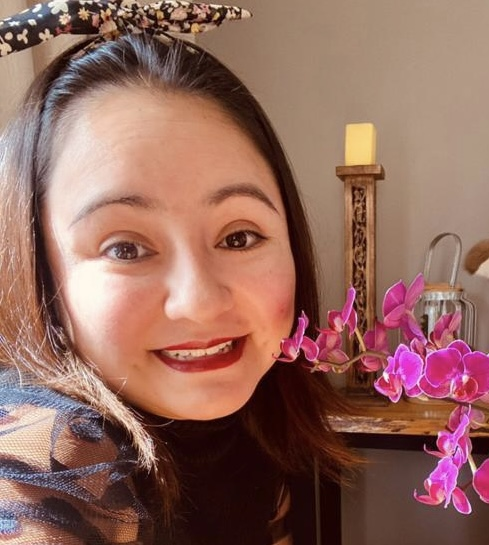
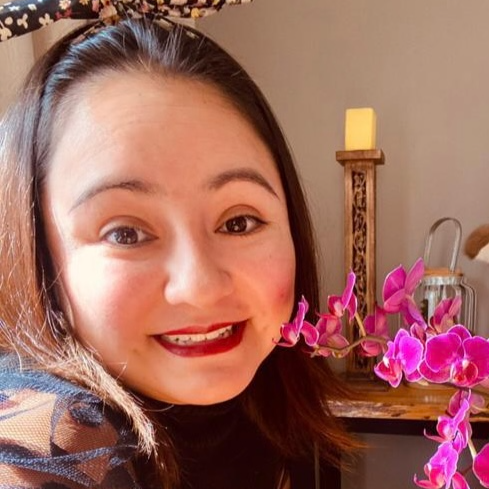
adicionando fotos

diff --git a/challenge-schneider/src/pages/paginaInfo/Sobre/index.jsx b/challenge-schneider/src/pages/paginaInfo/Sobre/index.jsx
@@ -4,6 +4,7 @@ import logo from "/images/schneider-logo-white.png"
 import fotoFiorella from '/images/fiorella.jpg'
 import { AreaSobre } from './styled';
 import fotoLeonardo from '/images/leonardo.jpg'
+import fotoAna from '/images/ana.jpeg'
 
 function Sobre() {
     return (
@@ -31,28 +32,31 @@ function Sobre() {
                     </div>
 
                     <div className='flex justify-center flex-wrap space-x-5 cards'>
-                        <div className='card flex-shrink-0 w-72 space-y-1 bg-neutral-50 shadow-md rounded-t-xl'>
-                            <div className='foto flex'>
-                                <img src={fotoFiorella} alt="foto" className='rounded-full' />
-                            </div>
-                            <h2>Nome:</h2>
-                            <p>Marilia Fiorella Méjico Mendoza Bueno</p>
-                            <h2>Rm:</h2>
-                            <p>97300</p>
-                            <h2>Função:</h2>
-                            <p>Elaboração de formulários, página Sobre, criação de conteúdo de postagens, e quiz.</p>
-
-                        </div>
+                        
                         <div className='card flex-shrink-0 w-72 space-y-1  bg-neutral-50 shadow-md rounded-t-xl'>
                             <div className='foto flex'>
-                                <img src="https://img.freepik.com/vetores-premium/pessoa-desconhecida-mulher_116137-3895.jpg?w=2000" alt="foto" className='rounded-full' />
+                                <img src={fotoAna} alt="foto" className='rounded-full' />
                             </div>
                             <h2>Nome:</h2>
                             <p>Ana Luiza Barbosa Eduardo do Nascimento</p>
                             <h2>Rm:</h2>
                             <p>96775</p>
                             <h2>Função:</h2>
-                            <p>Lorem ipsum dolor sit amet consectetur adipisicing elit. Consectetur, accusantium!</p>
+                            <p>Elaboração do vídeo Pitch</p>
+
+                        </div>
+
+                        
+                        <div className='card flex-shrink-0 w-72 space-y-1  bg-neutral-50 shadow-md rounded-t-xl'>
+                            <div className='foto flex'>
+                                <img src={fotoLeonardo} alt="foto" className='rounded-full' />
+                            </div>
+                            <h2>Nome:</h2>
+                            <p>Leonardo Mazolini Fernandes</p>
+                            <h2>Rm:</h2>
+                            <p>96897</p>
+                            <h2>Função:</h2>
+                            <p>Estilização, diagramação e interatividade. Aprimoramento de UI e UX.</p>
 
                         </div>
                         <div className='card flex-shrink-0 w-72 space-y-1  bg-neutral-50 shadow-md rounded-t-xl'>
@@ -64,19 +68,19 @@ function Sobre() {
                             <h2>Rm:</h2>
                             <p>997024</p>
                             <h2>Função:</h2>
-                            <p>Lorem ipsum dolor sit amet consectetur adipisicing elit. Consectetur, accusantium!</p>
+                            <p>Lorem ipsum, dolor sit amet consectetur adipisicing elit. Nemo, obcaecati?</p>
 
                         </div>
-                        <div className='card flex-shrink-0 w-72 space-y-1  bg-neutral-50 shadow-md rounded-t-xl'>
+                        <div className='card flex-shrink-0 w-72 space-y-1 bg-neutral-50 shadow-md rounded-t-xl'>
                             <div className='foto flex'>
-                                <img src={fotoLeonardo} alt="foto" className='rounded-full' />
+                                <img src={fotoFiorella} alt="foto" className='rounded-full' />
                             </div>
                             <h2>Nome:</h2>
-                            <p>Leonardo Mazolini Fernandes</p>
+                            <p>Marilia Fiorella Méjico Mendoza Bueno</p>
                             <h2>Rm:</h2>
-                            <p>96897</p>
+                            <p>97300</p>
                             <h2>Função:</h2>
-                            <p>Estilização, diagramação e interatividade. Aprimoramento de UI e UX.</p>
+                            <p>Elaboração de formulários, página Sobre, criação de conteúdo de postagens, e quiz.</p>
 
                         </div>
                         <div className='card flex-shrink-0 w-72 space-y-1  bg-neutral-50 shadow-md rounded-t-xl'>
